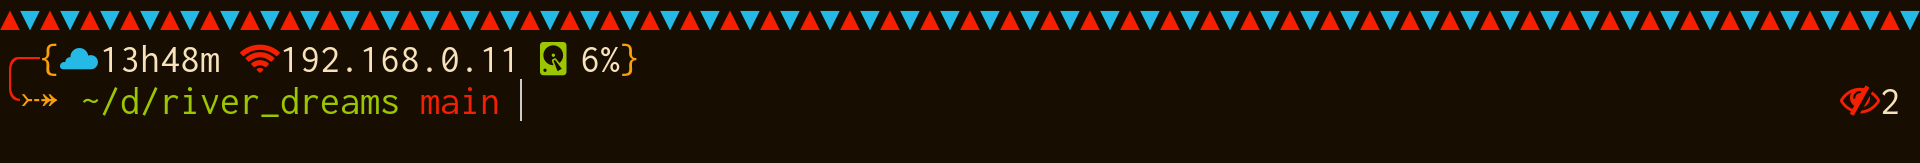
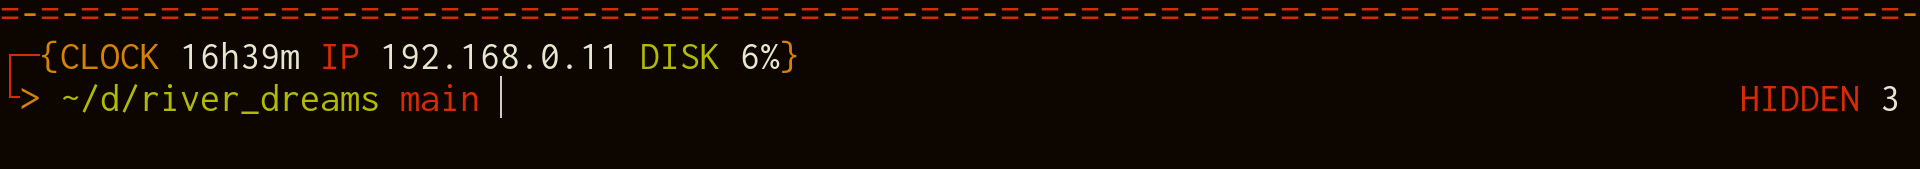
refactor: remove color variants feature

diff --git a/sources/lib.c b/sources/lib.c
@@ -9,11 +9,3 @@ choose_symbol_by_environment(const char *default_symbol, const char *fallback_sy
 	: default_symbol;
 }
 
-const char *
-choose_color_by_environment(const char *default_color, const char *color_variant)
-{
-	return !strcmp(getenv(ENV_COLOR_VARIANTS_KEY), "1")
-	? color_variant
-	: default_color;
-}
-

diff --git a/sources/left_prompt.c b/sources/left_prompt.c
@@ -33,8 +33,7 @@ print_separator(void)
 			);
 		} else {
 			printf(
-				"%%F{%s}%s%%f",
-				choose_color_by_environment("yellow", "blue"),
+				"%%F{yellow}%s%%f",
 				choose_symbol_by_environment("▼", "-")
 			);
 		}

diff --git a/README.md b/README.md
@@ -24,29 +24,28 @@ It shows:
 
 ## Installation
 
-  + Install and use a font patched by [Nerd Fonts](https://github.com/ryanoasis/nerd-fonts).
-  + install `gcc` and the standard C libraries. They usually come bundled with the compiler.
+  + install `gcc` and the standard C libraries. You will probably have them already installed.
+  + optionally, install and use a font patched by Nerd Fonts to see pretty symbols. If you do not use it, you can enable River Dreams's fallback text.
   + clone this repository to a directory, for example: `~/.config/zsh/themes/river_dreams`:
+
     ```bash
     git clone --depth 1 https://github.com/skippyr/river_dreams ~/.config/zsh/themes/river_dreams
     ```
   + add a source rule in your `~/.zshrc` pointing to the file `river_dreams.zsh-theme` inside the repository you have cloned.
+
     ```bash
     source ~/.config/zsh/themes/river_dreams/river_dreams.zsh-theme
     ```
   + restart your zsh session.
 
-The code will automatically be compiled. At any point, you can recompile those
-again using the function `river_dreams::recompile`.
+The code will automatically be compiled. At any point, you can recompile it again using the function `river_dreams::recompile`.
 
 
 ## Customization
 
 You can use environment variables to change River Dreams behaviors. For boolean values, use C standard: `1` for true and `0` for false.
 
-If the environment variable `RIVER_DREAMS_USE_FALLBACK_TEXT` is not set, it will set it with value `1` if your terminal only supports the 4-bits color pallete and `0` if not. This will allow you to use River Dreams even when your terminal does not support the symbols used by default.
-
-If the environment variable `RIVER_DREAMS_USE_COLOR_VARIANTS` is not set, it will set it with value `0`. This changes the accent color of the separator from `yellow` to `blue` and allow you to better match River Dreams with light terminal color schemes.
+Set the environment variable `RIVER_DREAMS_USE_FALLBACK_TEXT` to enable/disable fallback text. If it is not set, it will be set with value `1` if your terminal only supports the 4-bits color pallete and `0` if not. This will allow you to use River Dreams even when your terminal can not render a font with pretty symbols.
 
 
 ## Issues And Questions
@@ -57,3 +56,4 @@ If you have found an issue while using this software or have an idea to improve 
 ## License
 
 Copyright (c) 2023, Sherman Rofeman. MIT License.
+
